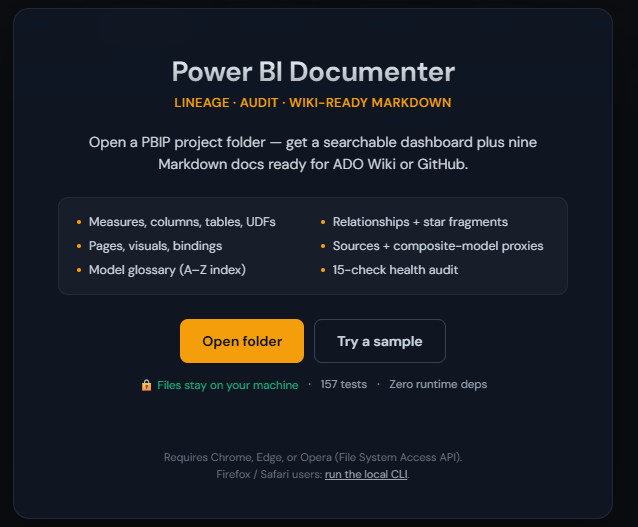
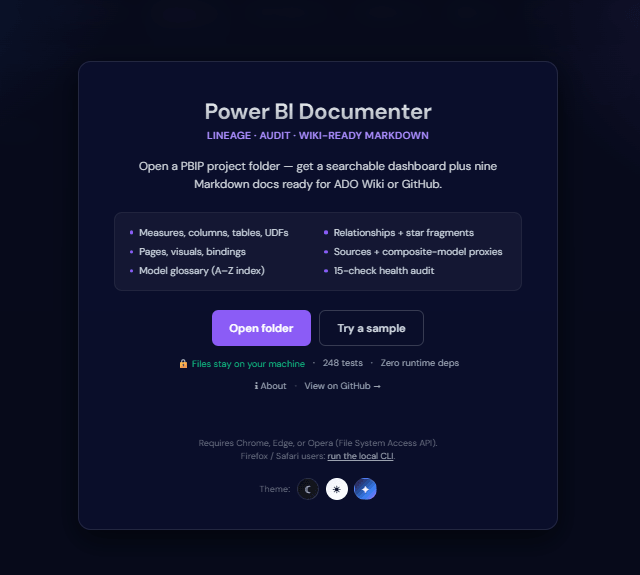
Refresh screenshot set for v0.9 + restructure README tour
User-supplied screenshots covering the post-0.9 surface, organised
into four thematic sections in the README:

- **Inspect the model** — measures, columns, tables (overview + drill-down)
- **Relationships, sources & lineage** — relationships (cardinality), sources (physical-source index + native queries + M-steps), lineage, unused
- **Pages, functions, calc groups** — pages overview / wireframe / bindings, functions, calc groups
- **Wiki-ready Markdown** — Docs tab rendering Model.md with the ER diagram

New shots reflect 0.9 features that the previous set predated:
relationship cardinality chips, the Sources-tab Physical-source index
+ Native queries + M-step breakdown + Raw M cards, the Unused tab,
the Calc Groups tab, the per-page wireframe + bindings split.

Removed stale + duplicate files:
- `02-measures.png` (superseded by `06-measures.png`)
- `03-mesures.png` (typo'd byte-identical duplicate of `03-tables.png`)
- `04-lineage.png` (superseded by `11-lineage.png`)
- `05-docs-model.png` (superseded by `12-modeldocuments.png`)
- `06-functions.png` (superseded by `07-functions.png`)
- `07-pages-layout.png` + `08-pages-bindings.png` (replaced by the
  three-shot pages set: `09-pages.png` / `-pagesB` / `-pagesC`)

`docs/screenshots/README.md` rewritten with the new shot list, capture
instructions, and a note on the numbering convention (sequence-only,
no semantic meaning — gaps like the missing `08-` are fine).

Changed region(s): [[0.1191, 0.3947, 0.8636, 0.9108], [0.1191, 0.0911, 0.8339, 0.334], [0.9828, 0.0, 1.0, 0.0607]]

diff --git a/readme.md b/readme.md
@@ -29,44 +29,79 @@ Open a PBIP project folder — get a searchable dashboard plus nine Markdown doc
 
 ## Tour
 
-### Measures, columns, tables — with lineage
+### Inspect the model
 
 <table>
 <tr>
-<td width="50%"><img src="docs/screenshots/02-measures.png" alt="Measures tab"></td>
+<td width="50%"><img src="docs/screenshots/06-measures.png" alt="Measures tab"></td>
+<td width="50%"><img src="docs/screenshots/04-columns.png" alt="Columns tab"></td>
+</tr>
+<tr>
+<td><b>Measures</b> — DAX dependencies, where-used per visual + page, direct/indirect/unused status, descriptions inline. CSV export honours filters.</td>
+<td><b>Columns</b> — types, usage counts, status, sortable + searchable. Same CSV export pattern.</td>
+</tr>
+<tr>
 <td width="50%"><img src="docs/screenshots/03-tables.png" alt="Tables tab"></td>
+<td width="50%"><img src="docs/screenshots/03-tablesB.png" alt="Tables tab — drill-down"></td>
 </tr>
 <tr>
-<td><b>Measures tab</b> — DAX dependencies, where-used per visual + page, direct/indirect/unused status, descriptions inline.</td>
-<td><b>Tables tab</b> — grouped by role (Fact / Dimension / Bridge / Calc group). Per-table stats for columns, measures, keys, FKs.</td>
-</tr>
-<tr>
-<td width="50%"><img src="docs/screenshots/04-lineage.png" alt="Lineage view"></td>
-<td width="50%"><img src="docs/screenshots/06-functions.png" alt="Functions tab with UDF fan-in"></td>
-</tr>
-<tr>
-<td><b>Click-to-trace lineage</b> — upstream DAX dependencies, source tables, functions. Downstream visuals + measures that feed into it.</td>
-<td><b>UDF reference</b> — parameters, body, and every measure that calls each function. Here: one UDF powering 53 measures.</td>
+<td><b>Tables</b> — grouped by role (Fact / Dimension / Bridge / Calc Group). Per-table stats for columns, measures, keys, FKs.</td>
+<td><b>Tables drill-down</b> — expand any table to see columns, measures, and per-relationship cardinality chips (<code>*:1</code>, <code>↔</code> for bidi).</td>
 </tr>
 </table>
 
-### Report layout — audited
+### Relationships, sources & lineage
 
 <table>
 <tr>
-<td width="55%"><img src="docs/screenshots/07-pages-layout.png" alt="Page layout SVG wireframe"></td>
-<td width="45%"><img src="docs/screenshots/08-pages-bindings.png" alt="Page visual bindings"></td>
+<td width="50%"><img src="docs/screenshots/05-relationships.png" alt="Relationships tab"></td>
+<td width="50%"><img src="docs/screenshots/02-sources.png" alt="Sources tab"></td>
 </tr>
 <tr>
-<td><b>SVG wireframe</b> — each page's visuals at true canvas positions. Charts, cards, slicers, tables, maps, AI visuals — shapes and buttons deliberately filtered.</td>
-<td><b>Per-visual bindings</b> — every measure + column each visual consumes, with type chips and chart-level breakdowns. Hover the wireframe for field-well tooltips.</td>
+<td><b>Relationships</b> — active + inactive, cardinality (one/many on each side), cross-filter direction (single → / both ↔). CSV export.</td>
+<td><b>Sources</b> — connection buckets, partition modes, <b>physical-source index</b> (what breaks if this source goes away?), hand-written SQL from <code>Value.NativeQuery</code>, M-step breakdown classifying every ETL step, raw M expressions on demand.</td>
+</tr>
+<tr>
+<td width="50%"><img src="docs/screenshots/11-lineage.png" alt="Lineage view"></td>
+<td width="50%"><img src="docs/screenshots/10-Unused.png" alt="Unused tab"></td>
+</tr>
+<tr>
+<td><b>Click-to-trace lineage</b> — upstream DAX dependencies, source tables, functions. Downstream visuals + measures that feed into it.</td>
+<td><b>Unused</b> — orphan measures, dead-chain measures, indirect-use detection. Pairs with the Improvements audit's broken-reference detection.</td>
+</tr>
+</table>
+
+### Pages, functions, calc groups
+
+<table>
+<tr>
+<td width="50%"><img src="docs/screenshots/09-pages.png" alt="Pages tab — overview"></td>
+<td width="50%"><img src="docs/screenshots/09-pagesB.png" alt="Pages tab — wireframe"></td>
+</tr>
+<tr>
+<td><b>Pages overview</b> — every page in the report with visual count, slicers, measure / column bindings.</td>
+<td><b>SVG wireframe</b> — each page's visuals at true canvas positions. Charts, cards, slicers, tables, maps — shapes and buttons deliberately filtered.</td>
+</tr>
+<tr>
+<td width="50%"><img src="docs/screenshots/09-pagesC.png" alt="Pages tab — bindings"></td>
+<td width="50%"><img src="docs/screenshots/07-functions.png" alt="Functions tab"></td>
+</tr>
+<tr>
+<td><b>Per-visual bindings</b> — every measure + column each visual consumes, with type chips. Hover the wireframe for field-well tooltips.</td>
+<td><b>UDF reference</b> — parameters, body, and every measure that calls each function. Tabular 1702+.</td>
+</tr>
+<tr>
+<td width="50%" colspan="2" align="center"><img src="docs/screenshots/13-calcgroups.png" alt="Calc Groups tab" width="720"></td>
+</tr>
+<tr>
+<td colspan="2" align="center"><b>Calc Groups</b> — items, precedence, format-string expressions per item.</td>
 </tr>
 </table>
 
 ### Wiki-ready Markdown
 
 <p align="center">
-  <img src="docs/screenshots/05-docs-model.png" alt="Docs tab with Model technical specification" width="720">
+  <img src="docs/screenshots/12-modeldocuments.png" alt="Docs tab with Model technical specification" width="720">
 </p>
 
 Nine Markdown documents — paste-ready for ADO Wiki or GitHub, anchor-stable, Mermaid-native.

diff --git a/docs/screenshots/README.md b/docs/screenshots/README.md
@@ -2,28 +2,39 @@
 
 Referenced by the root [`readme.md`](../../readme.md) for the feature tour and by the hosted Pages site.
 
-## Expected files
+## Current shot set (v0.9.x)
 
-Save each screenshot with the filename listed below. PNG format, width around 1400 px, optimised (keep each file under ~200 KB with a tool like [tinypng.com](https://tinypng.com) or `pngquant`).
+PNG, ~1280–1400 px wide. Optimise to keep each file under ~200 KB before commit (e.g. [tinypng.com](https://tinypng.com) or `pngquant`).
 
-| Filename | What to capture | Used as |
+| Filename | What it shows | Used in README |
 |---|---|---|
-| `01-landing.png` | The "Power BI Documenter" overlay before any folder is picked — feature grid, CTAs, trust chips | **Hero** |
-| `02-measures.png` | Measures tab with 128 measures sorted, dependencies column visible, Used-In page chips | Feature tour — "What you can explore" |
-| `03-tables.png` | Tables tab showing data tables grouped with per-table stats (cols/measures/keys/FKs) | Feature tour — "Model structure" |
-| `04-lineage.png` | Lineage tab for one measure (e.g. Revenue Delta) showing upstream + downstream panes | Feature tour — "Click-to-trace lineage" |
-| `05-docs-model.png` | Docs tab → Model view with the technical-spec front matter visible | Feature tour — "Wiki-ready output" |
-| `06-functions.png` | Functions tab with a UDF expanded, showing its body + the measures that use it | Feature tour — "UDF fan-in" |
-| `07-pages-layout.png` | Pages tab with one page expanded, Layout section open, SVG wireframe visible | Feature tour — "Page layout wireframe" |
-| `08-pages-bindings.png` | Same page section below the wireframe — Visual types chips + Measures chips + Visuals binding table | Feature tour — "Field-well bindings" |
+| `01-landing.png` | Power BI Documenter overlay before any folder is picked — CTAs, theme picker, trust chips, About / View on GitHub | **Hero** |
+| `02-sources.png` | Sources tab — connection buckets, **physical-source index**, native queries / M-step breakdown / raw M cards | Relationships, sources & lineage |
+| `03-tables.png` | Tables tab — role-grouped overview | Inspect the model |
+| `03-tablesB.png` | Tables tab — one card expanded, per-relationship cardinality chips visible | Inspect the model |
+| `04-columns.png` | Columns tab with usage counts and CSV export | Inspect the model |
+| `05-relationships.png` | Relationships tab — cardinality + cross-filter direction columns | Relationships, sources & lineage |
+| `06-measures.png` | Measures tab — DAX deps + where-used + CSV export | Inspect the model |
+| `07-functions.png` | Functions tab — UDF parameters, body, fan-in to measures | Pages, functions, calc groups |
+| `09-pages.png` | Pages tab — overview list of every page with binding counts | Pages, functions, calc groups |
+| `09-pagesB.png` | Pages tab — SVG wireframe (visuals at true canvas positions) | Pages, functions, calc groups |
+| `09-pagesC.png` | Pages tab — per-visual field-well bindings table | Pages, functions, calc groups |
+| `10-Unused.png` | Unused tab — orphan + dead-chain measures, indirect-use detection | Relationships, sources & lineage |
+| `11-lineage.png` | Lineage view — upstream deps + source tables + downstream visuals | Relationships, sources & lineage |
+| `12-modeldocuments.png` | Docs tab → Model.md rendered, ER diagram visible | Wiki-ready Markdown |
+| `13-calcgroups.png` | Calc Groups tab — items, precedence, format-string expressions | Pages, functions, calc groups |
 
 ## How to capture
 
 1. Open the hosted site: https://jonathan-pap.github.io/PowerBI-Lineage/
 2. Click **Try a sample** (or load your own folder)
 3. For each shot, navigate to the tab and resize the browser window to around 1400 px wide
-4. Use the browser's built-in screenshot tool (Chrome: DevTools → three-dot menu → Run command → "Capture full size screenshot") to get a clean shot without the OS chrome
+4. Use the browser's built-in screenshot tool — Chrome: DevTools → three-dot menu → Run command → "Capture full size screenshot" — for clean shots without OS chrome
 
 ## Social preview
 
 For the GitHub social-preview image (Settings → Social preview), a cropped `01-landing.png` resized to **1280 × 640** works well — the overlay centres naturally.
+
+## Notes on numbering
+
+Filenames carry their two-digit prefix purely for sort order — no semantic meaning. Some numbers (`08`) are intentionally unused; the sequence reflects how the README presents the tour, not internal IDs. New screenshots should pick the next free number rather than reusing.
